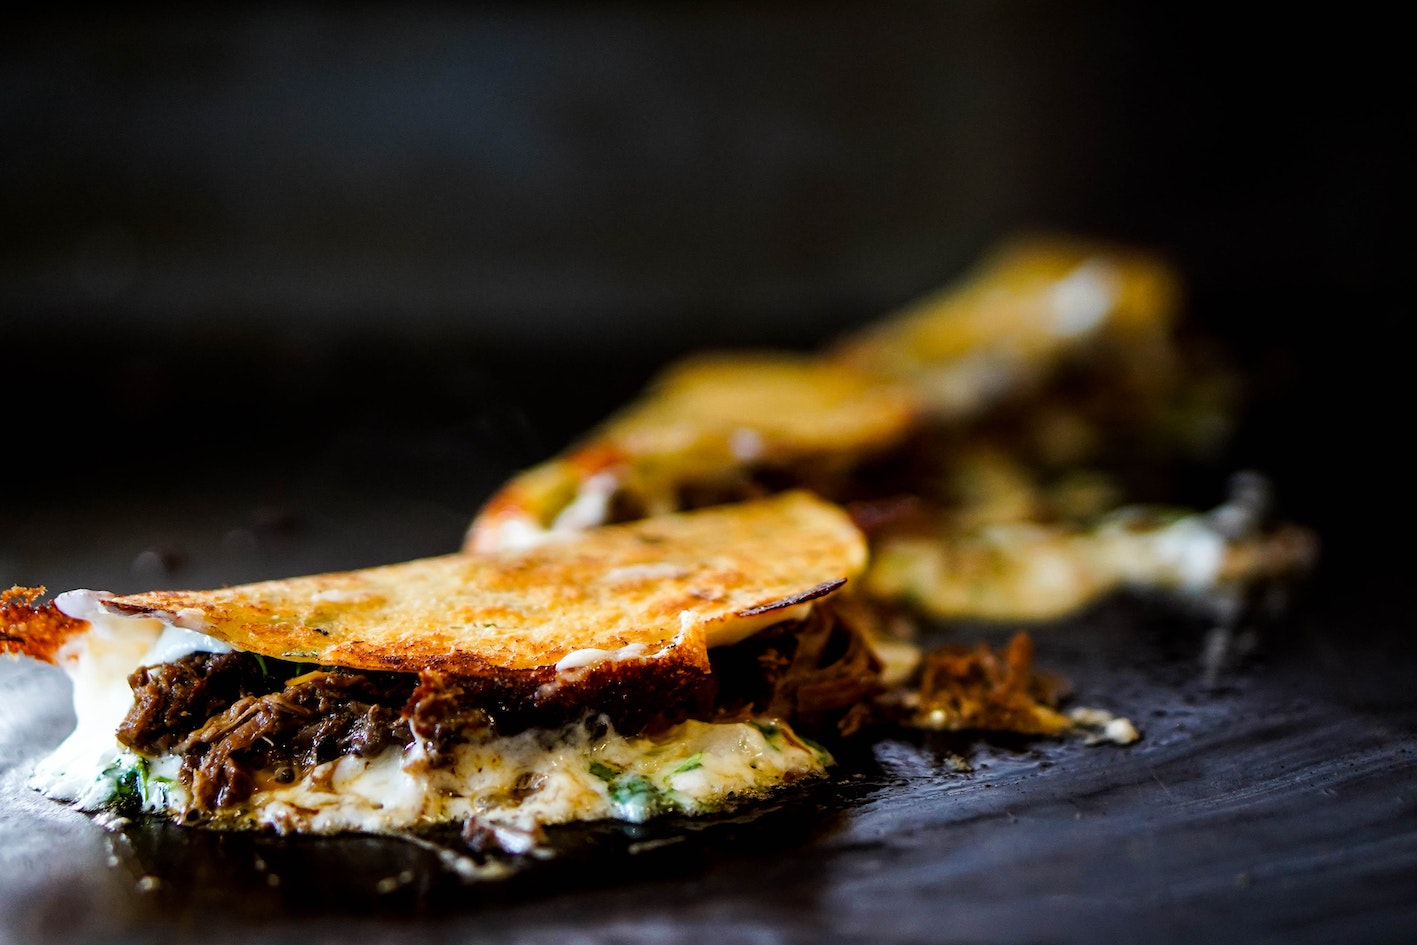
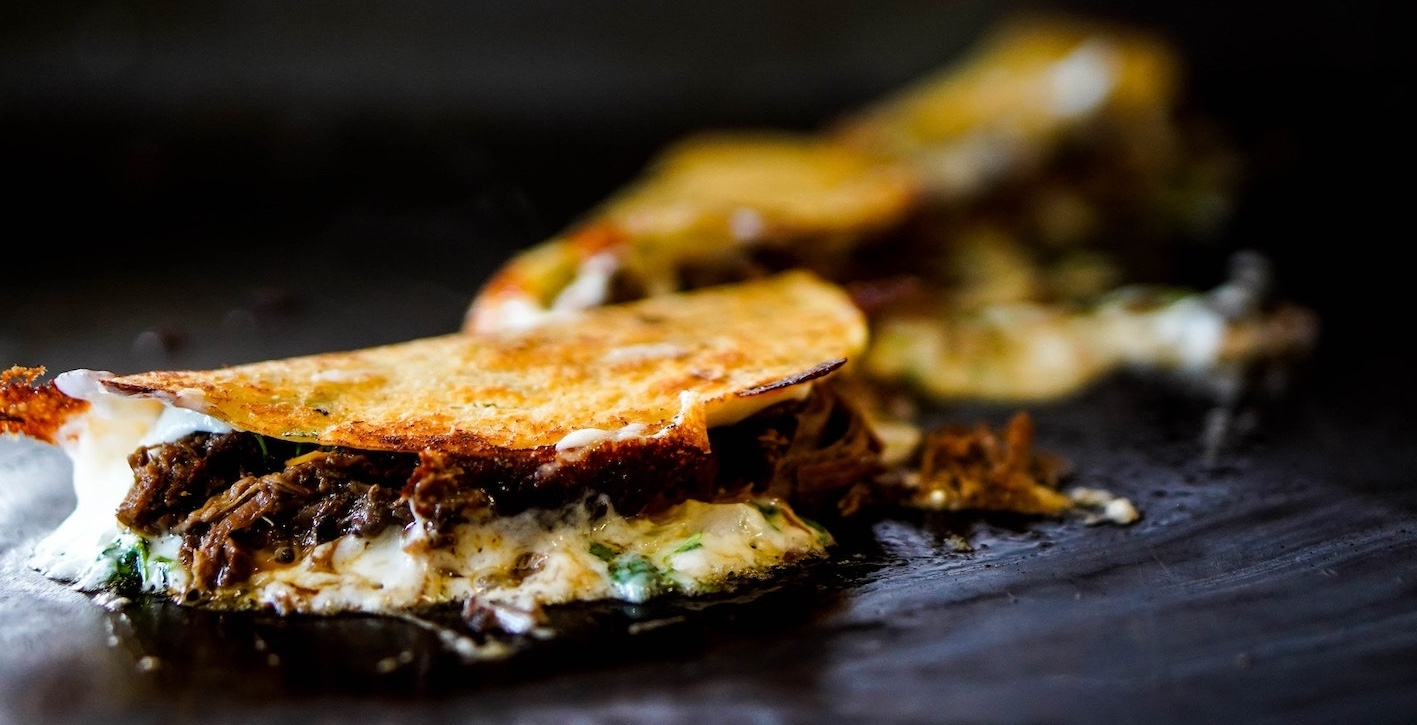
“Update-52”

diff --git a/app/components/BannerFood.tsx b/app/components/BannerFood.tsx
@@ -23,7 +23,7 @@ const TextImageScroll: React.FC = () => {
 
   return (
     <div ref={containerRef} className="relative h-[200vh]"> {/* Altura reducida a 200vh */}
-      <div className="sticky top-0 h-screen overflow-hidden">
+      <div className="sticky top-0  h-screen overflow-hidden">
         <motion.div
           className="absolute inset-0 z-0"
           style={{ scale: imageScale, opacity: imageOpacity, willChange: "transform, opacity" }} // Añadir will-change
@@ -31,7 +31,7 @@ const TextImageScroll: React.FC = () => {
           <img
             src="pexels-diamond-multimedia-99937091.jpg"
             alt="Background"
-            className="w-full h-full object-cover rounded-lg"
+            className="w-full h-full object-cover rounded-3xl"
           />
         </motion.div>
         <motion.div
